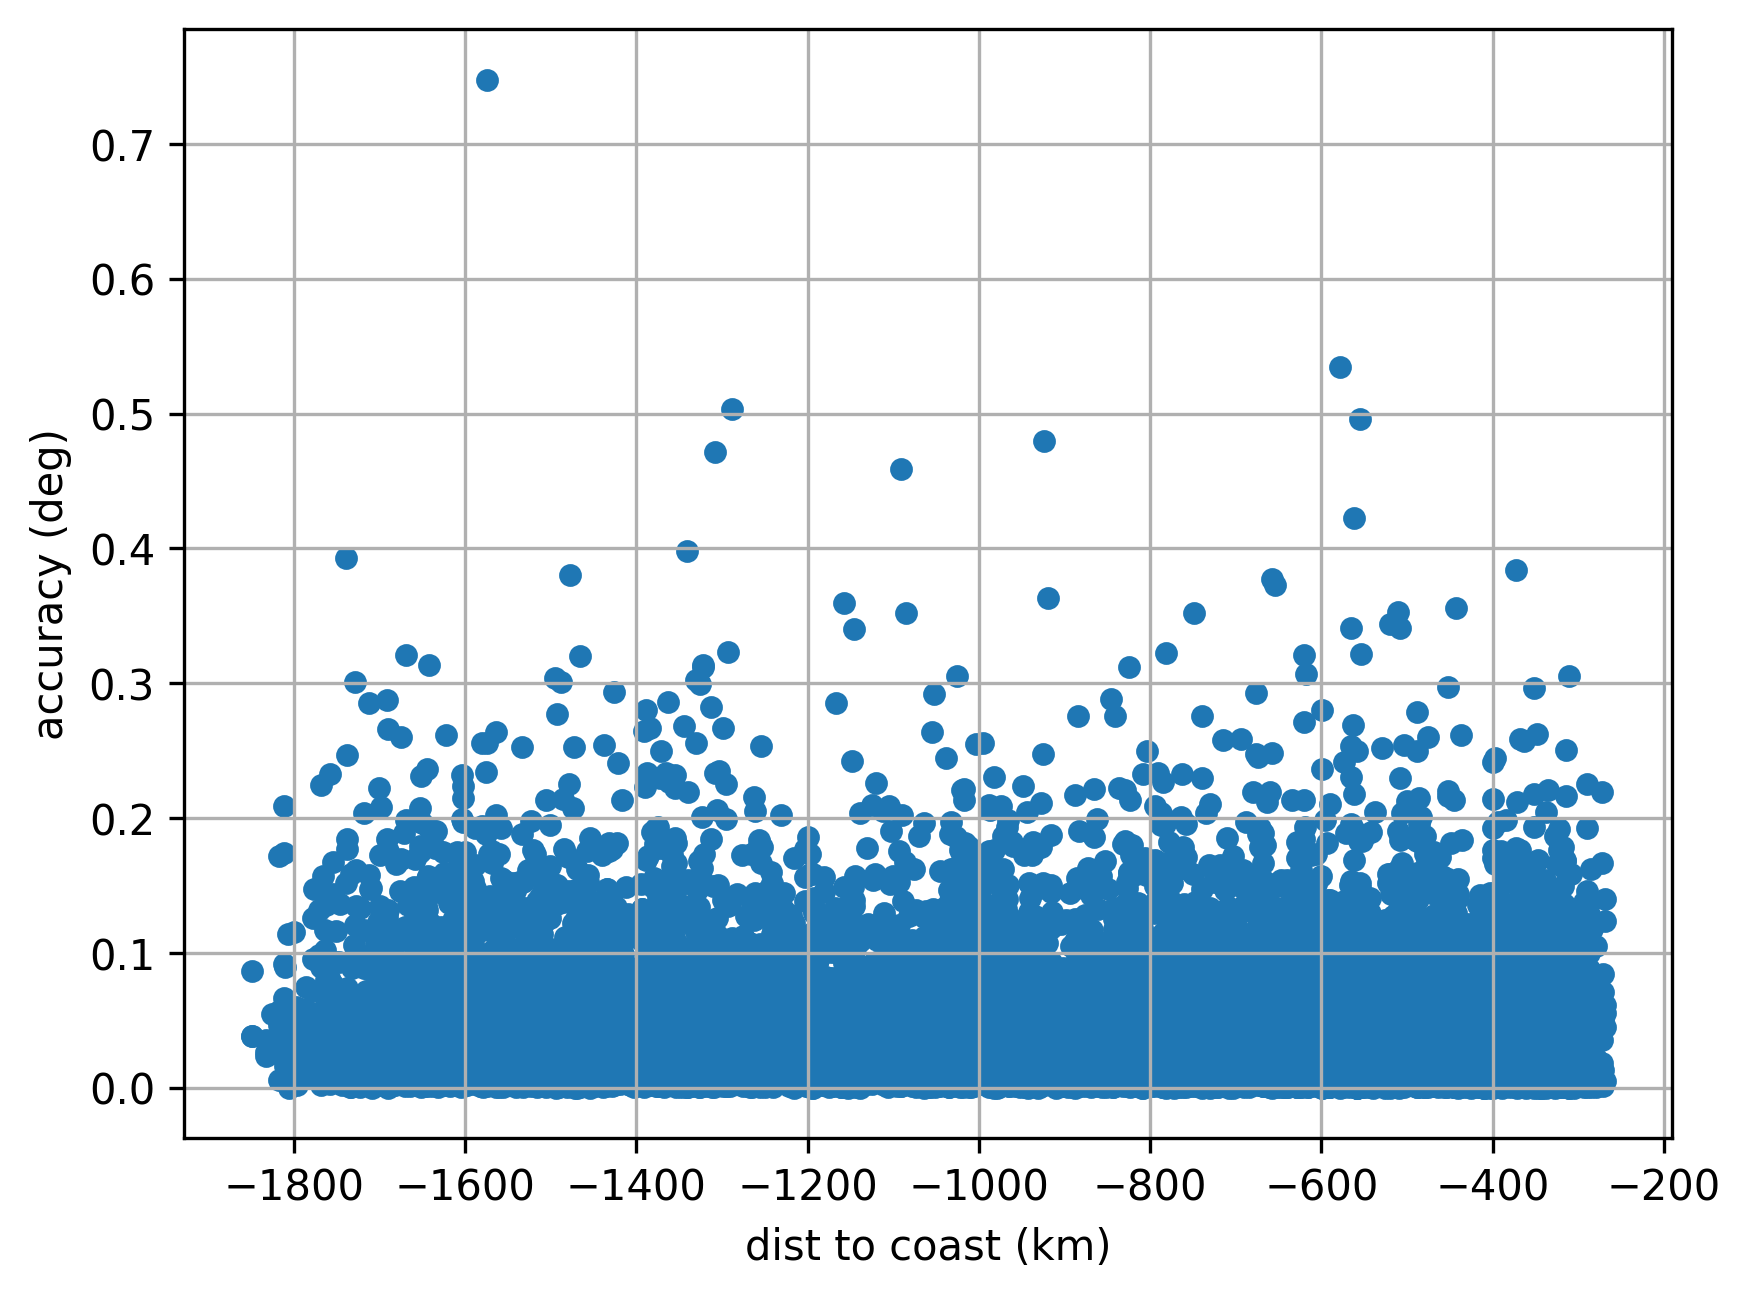
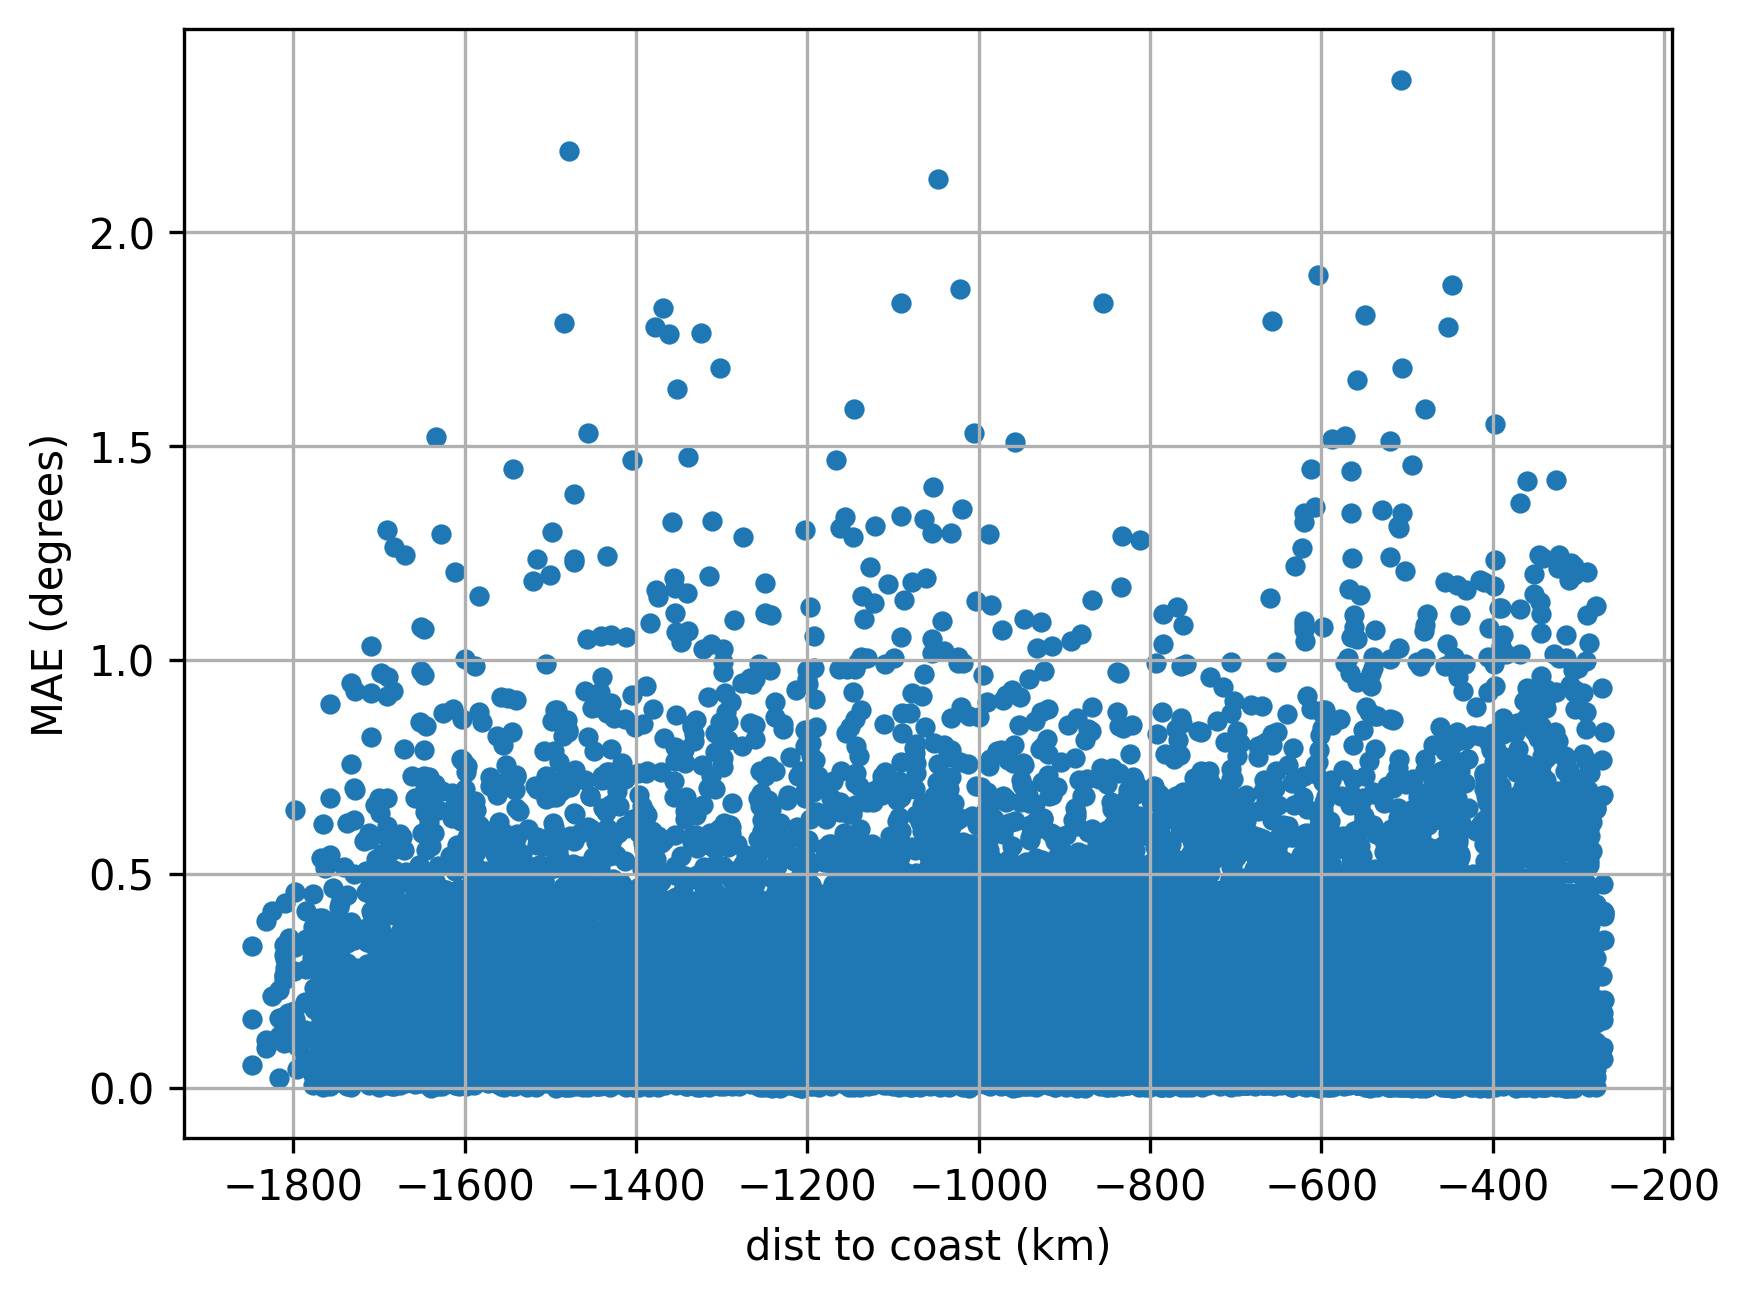
additional analysis

diff --git a/dist_to_coast_analysis.py b/dist_to_coast_analysis.py
@@ -5,7 +5,6 @@ import zipfile
 import numpy as np
 import pickle
 import gc
-from netCDF4 import Dataset
 import xarray as xr
 
 import torch
@@ -32,7 +31,7 @@ CROP_SIZE = opt.crop_size
 # Load model and test dataset
 data_filename = 'train_1y_Australia2.pkl' # 'sc_256_2y_5.pkl' # load original datasets #
 data_name, extension = os.path.splitext(data_filename)
-results = {'dist_sr_hr': [], 'dist_to_coast': []}
+results = {'dist_sr_hr': [], 'dist_bi_hr': [], 'dist_to_coast': []}
 
 model = Generator(in_channels=1, out_channels=1, scale_factor=UPSCALE_FACTOR).eval() #Generator(UPSCALE_FACTOR).eval()
 if torch.cuda.is_available():
@@ -56,39 +55,25 @@ for i, data in enumerate(data_HR):
     dist_to_coast.append(data[3])
 
 # Load ancilliary data i.e. dist-to-coast (for AUS)
-data_filename2 = 'dist_to_GSHHG_v2.3.7_1m.nc' # 'dist_to_GSHHG_v2.3.7_1m.zip' # global netCDF grid
-data_name2, extension2 = os.path.splitext(data_filename2)
-lat_filter = [np.amin(np.amin(pos, axis=1)), np.amax(np.amin(pos, axis=2))] # -90 to 90 --> -45.1, -15.0
-lon_filter = [np.amin(np.amax(pos, axis=2)), np.amax(np.amax(pos, axis=2))] # 0 to 360 --> 90.0, 125.1
-if extension2 == '.zip': # os.path.exists(f'{data_dir}{data_filename2}'):
-    with zipfile.ZipFile(f'{data_dir}{data_filename2}', 'r') as f:
-        f.extractall()
-        os.remove(f'{data_dir}{data_filename2}')
-        print(f'{data_dir}{data_filename2} extracted and ZIP deleted')
-elif extension2 == '.nc':
-    # nc_file = Dataset(f'{data_dir}{data_filename2}', 'r')
-    # print(nc_file.variables.keys()) # lon, lat, dist
-    global_nc = xr.open_dataset(f'{data_dir}{data_filename2}')
-    if not np.any(dist_to_coast): # e.g. aus dataset
-        aus_nc = global_nc.sel(lat = slice(lat_filter[0], lat_filter[1]),
-                                  lon = slice(lon_filter[0], lon_filter[1]))
-        ocean_mask = aus_nc["dist"] < 0 # keep only ocean points (i.e. negative distances)
-        dist_to_coast = aus_nc.where(ocean_mask, drop=True)
-        # lat = nc_file.variables['lat'][:].data
-        # lat = lat[(lat > lat_filter[0]) & (lat < lat_filter[1])]
-        # lon = nc_file.variables['lon'][:].data
-        # lon = lon[(lon > lon_filter[0]) & (lon < lon_filter[1])]
-        # dist = nc_file.variables['dist'][:].data
-        # dist_to_coast = xr.DataArray(
-        #     data=dist,
-        #     dims=["y", "x"],
-        #     coords={
-        #         "lat": ("y", lat),  # Assign 1D lat array
-        #         "lon": ("x", lon),  # Assign 1D lon array
-        #     }
-        # )
-else:
-    print(f'{data_dir}{data_filename2} does not exist')
+if data_name == 'train_1y_Australia2':
+    data_filename2 = 'dist_to_GSHHG_v2.3.7_1m.nc' # 'dist_to_GSHHG_v2.3.7_1m.zip' # global netCDF grid
+    data_name2, extension2 = os.path.splitext(data_filename2)
+    lat_filter = [np.amin(np.amin(pos, axis=1)), np.amax(np.amin(pos, axis=2))] # -90 to 90 --> -45.1, -15.0
+    lon_filter = [np.amin(np.amax(pos, axis=2)), np.amax(np.amax(pos, axis=2))] # 0 to 360 --> 90.0, 125.1
+    if extension2 == '.zip': # os.path.exists(f'{data_dir}{data_filename2}'):
+        with zipfile.ZipFile(f'{data_dir}{data_filename2}', 'r') as f:
+            f.extractall()
+            os.remove(f'{data_dir}{data_filename2}')
+            print(f'{data_dir}{data_filename2} extracted and ZIP deleted')
+    elif extension2 == '.nc':
+        global_nc = xr.open_dataset(f'{data_dir}{data_filename2}')
+        if not np.any(dist_to_coast): # e.g. aus dataset
+            aus_nc = global_nc.sel(lat = slice(lat_filter[0], lat_filter[1]),
+                                    lon = slice(lon_filter[0], lon_filter[1]))
+            ocean_mask = aus_nc['dist'] < 0 # keep only ocean points (i.e. negative distances)
+            dist_to_coast = aus_nc.where(ocean_mask, drop=True)
+    else:
+        print(f'{data_dir}{data_filename2} does not exist')
 
 num_sample = np.shape(test_HR)[0] # 200
 test_HR = test_HR[:num_sample]
@@ -113,12 +98,16 @@ for lr_image, hr_bicubic_image, hr_image in test_bar:
     sr_image = model(lr_image)
     sr_image_denorm = denormalize(sr_image, test_HR[index].min(), test_HR[index].max())
     hr_image_denorm = denormalize(hr_image, test_HR[index].min(), test_HR[index].max())
+    bi_image_denorm = denormalize(hr_bicubic_image, test_HR[index].min(), test_HR[index].max())
 
     # investigate the relation between prediction accuracy and distance to the coast (in AUS, if enough time also SCS)
     sr_image_sst = sr_image_denorm.cpu().squeeze(0).squeeze(0)[CROP_SIZE//2][CROP_SIZE//2]
     hr_image_sst = hr_image_denorm.cpu().squeeze(0).squeeze(0)[CROP_SIZE//2][CROP_SIZE//2]
+    bi_image_sst = bi_image_denorm.cpu().squeeze(0).squeeze(0)[CROP_SIZE//2][CROP_SIZE//2]
     dist_sr_hr = abs(sr_image_sst.detach() - hr_image_sst)
+    dist_bi_hr = abs(bi_image_sst.detach() - hr_image_sst)
     results['dist_sr_hr'].append(dist_sr_hr)#.item())
+    results['dist_bi_hr'].append(dist_bi_hr)
 
     index += 1
 
@@ -137,8 +126,8 @@ for i in range(num_sample):
 # plotting trend
 out_path = 'statistics/'
 fig, ax = plt.subplots()
-ax.scatter(np.array(results['dist_to_coast']), np.array(results['dist_sr_hr']), s=20)
-ax.set_ylabel('accuracy (deg)')
+ax.scatter(np.array(results['dist_to_coast']), np.array(results['dist_bi_hr']), s=15) # dist_sr_hr
+ax.set_ylabel('MAE (degrees)')
 ax.set_xlabel('dist to coast (km)')
 ax.grid(True)
 fig.savefig(f'{out_path}{data_name}_distToCoast.png', dpi=300, bbox_inches='tight') 

diff --git a/temporal_analysis.py b/temporal_analysis.py
@@ -1,6 +1,6 @@
 import argparse
 import os
-import zipfile
+from math import log10
 
 import numpy as np
 import pickle
@@ -11,6 +11,7 @@ from torch.utils.data import DataLoader
 from torch.autograd import Variable
 from tqdm import tqdm
 
+from datetime import datetime, timedelta
 import matplotlib.pyplot as plt
 
 from data_utils import clear_directory, denormalize, load_original_data, TestTensorDataset
@@ -27,9 +28,9 @@ MODEL_NAME = opt.model_name
 CROP_SIZE = opt.crop_size
 
 # Load model and test dataset
-data_filename = 'train_1y_Australia2.pkl' # 'sc_256_2y_5.pkl' # load original dataset
+data_filename = 'train_1y_Australia2.pkl' # 'sc_256_2y_5.pkl' #load original dataset
 data_name, extension = os.path.splitext(data_filename)
-results = {data_name: {'psnr': [], 'ssim': []}} #,'Set5': {'psnr': [], 'ssim': []}
+results = {data_name: {'dist_sr_hr': [], 'dist_bi_hr': [], 'time': []}}
 
 model = Generator(in_channels=1, out_channels=1, scale_factor=UPSCALE_FACTOR).eval() #Generator(UPSCALE_FACTOR).eval()
 if torch.cuda.is_available():
@@ -50,3 +51,62 @@ for i, data in enumerate(data_HR):
     test_HR_interp.append(data_HR_interp[i][0].squeeze(0))
     pos.append(data[1])
     norm_time.append(data[2])
+
+num_sample = np.shape(test_HR)[0] # // 10 # for debugging
+test_HR = test_HR[:num_sample]; test_LR = test_LR[:num_sample]
+# test_set = TestDatasetFromFolder('data/test', upscale_factor=UPSCALE_FACTOR)
+test_set = TestTensorDataset(test_HR, test_LR, test_HR_interp, upscale_factor=UPSCALE_FACTOR, crop_size=CROP_SIZE)
+test_loader = DataLoader(dataset=test_set, num_workers=4, batch_size=1, shuffle=False)
+test_bar = tqdm(test_loader, desc='[testing benchmark datasets]')
+
+out_path = 'benchmark_results/di-lab_%s/' % str(UPSCALE_FACTOR)
+clear_directory(out_path)
+
+# Create global map of reconstructed images
+index = 0; sst_image = []; hr_image_all = []; lr_image_all = []
+for lr_image, hr_bicubic_image, hr_image in test_bar:
+    with torch.no_grad():
+        lr_image = Variable(lr_image)
+        hr_image = Variable(hr_image)
+    if torch.cuda.is_available():
+        lr_image = lr_image.cuda()
+        hr_image = hr_image.cuda()
+
+    sr_image = model(lr_image)
+
+    # denormalization with max pixel
+    hr_image_denorm = denormalize(hr_image, test_HR[index].min(), test_HR[index].max()) # hr_image.cpu().numpy() * test_HR_max.numpy()
+    sr_image_denorm = denormalize(sr_image, test_HR[index].min(), test_HR[index].max()) # sr_image.cpu().detach().numpy() * test_HR_max.numpy()
+    bi_image_denorm = denormalize(hr_bicubic_image, test_HR[index].min(), test_HR[index].max())
+    lr_image_denorm = denormalize(lr_image, test_LR[index].min(), test_LR[index].max()) # lr_image.cpu().numpy() * test_LR_max.numpy()
+    
+    _, _, img_w, img_h = hr_image_denorm.shape
+    sr_image_sst = sr_image_denorm.cpu().squeeze(0).squeeze(0)[img_w//2][img_h//2]
+    hr_image_sst = hr_image_denorm.cpu().squeeze(0).squeeze(0)[img_w//2][img_h//2]
+    bi_image_sst = bi_image_denorm.cpu().squeeze(0).squeeze(0)[img_w//2][img_h//2]
+    dist_sr_hr_sst = abs(sr_image_sst.detach() - hr_image_sst)
+    dist_bi_hr = abs(bi_image_sst.detach() - hr_image_sst)
+    results[data_name]['dist_sr_hr'].append(dist_sr_hr_sst)
+    results[data_name]['dist_bi_hr'].append(dist_bi_hr)
+    results[data_name]['time'].append(norm_time[index])
+
+    index += 1
+
+out_path = 'statistics/'
+dates = [(datetime(2023, 1, 1) + timedelta(days=int(t*360))).date().isoformat() for t in results[data_name]['time']] # Precompute all date strings
+
+# plotting dist-to-coast trend
+fig, ax = plt.subplots()
+ax.set_xlabel('norm time')
+ax.scatter(dates, np.array(results[data_name]['dist_bi_hr']), color='tab:blue', s=15) # alpha=0.7) # dist_sr_hr
+ax.set_ylabel('MAE (degrees)')
+ax.grid(True)
+if len(dates) > 1000:
+    n = len(dates) // 1000
+else:
+    n = len(dates) // 100 
+ax.xaxis.set_major_locator(plt.MultipleLocator(n))
+plt.xticks(rotation=70)
+
+fig.savefig(f'{out_path}{data_name}_temporalAnalysis.png', dpi=300, bbox_inches='tight')
+plt.close('all')

diff --git a/test_real.py b/test_real.py
@@ -236,14 +236,14 @@ ax1.set_xlabel('dist to coast (km)')
 ax1.scatter(np.array(results[data_name]['dist_to_coast']), 
             np.array(results[data_name]['diff_sr']), 
             color='tab:red', label='SR', alpha=0.7)
-ax1.set_ylabel('SR accuracy (deg)', color='tab:red')
+ax1.set_ylabel('SR-InSitu MAE (deg)', color='tab:red')
 ax1.tick_params(axis='y', labelcolor='tab:red')
 
 ax2 = ax1.twinx()
 ax2.scatter(np.array(results[data_name]['dist_to_coast']), 
             np.array(results[data_name]['diff_hr']), 
             color='tab:blue', label='HR', alpha=0.7)
-ax2.set_ylabel('HR accuracy (deg)', color='tab:blue')
+ax2.set_ylabel('HR-InSitu MAE (deg)', color='tab:blue')
 ax2.tick_params(axis='y', labelcolor='tab:blue')
 
 ax1.legend(loc="upper left")

diff --git a/test_global.py b/test_global.py
@@ -192,7 +192,7 @@ dates = [(datetime(2023, 1, 1) + timedelta(days=int(t*360))).date().isoformat() 
 images = [] # Create initial empty image collection
 for _ in range(len(unique_time)):
     images.append(ax.imshow(np.empty((0,0)), visible=False, origin='lower', cmap='viridis'))
-    
+
 ani = animation.FuncAnimation(fig, animate, frames=len(unique_time), interval=500, blit=True, repeat=False)
 
 # writer = PillowWriter(fps=5)
